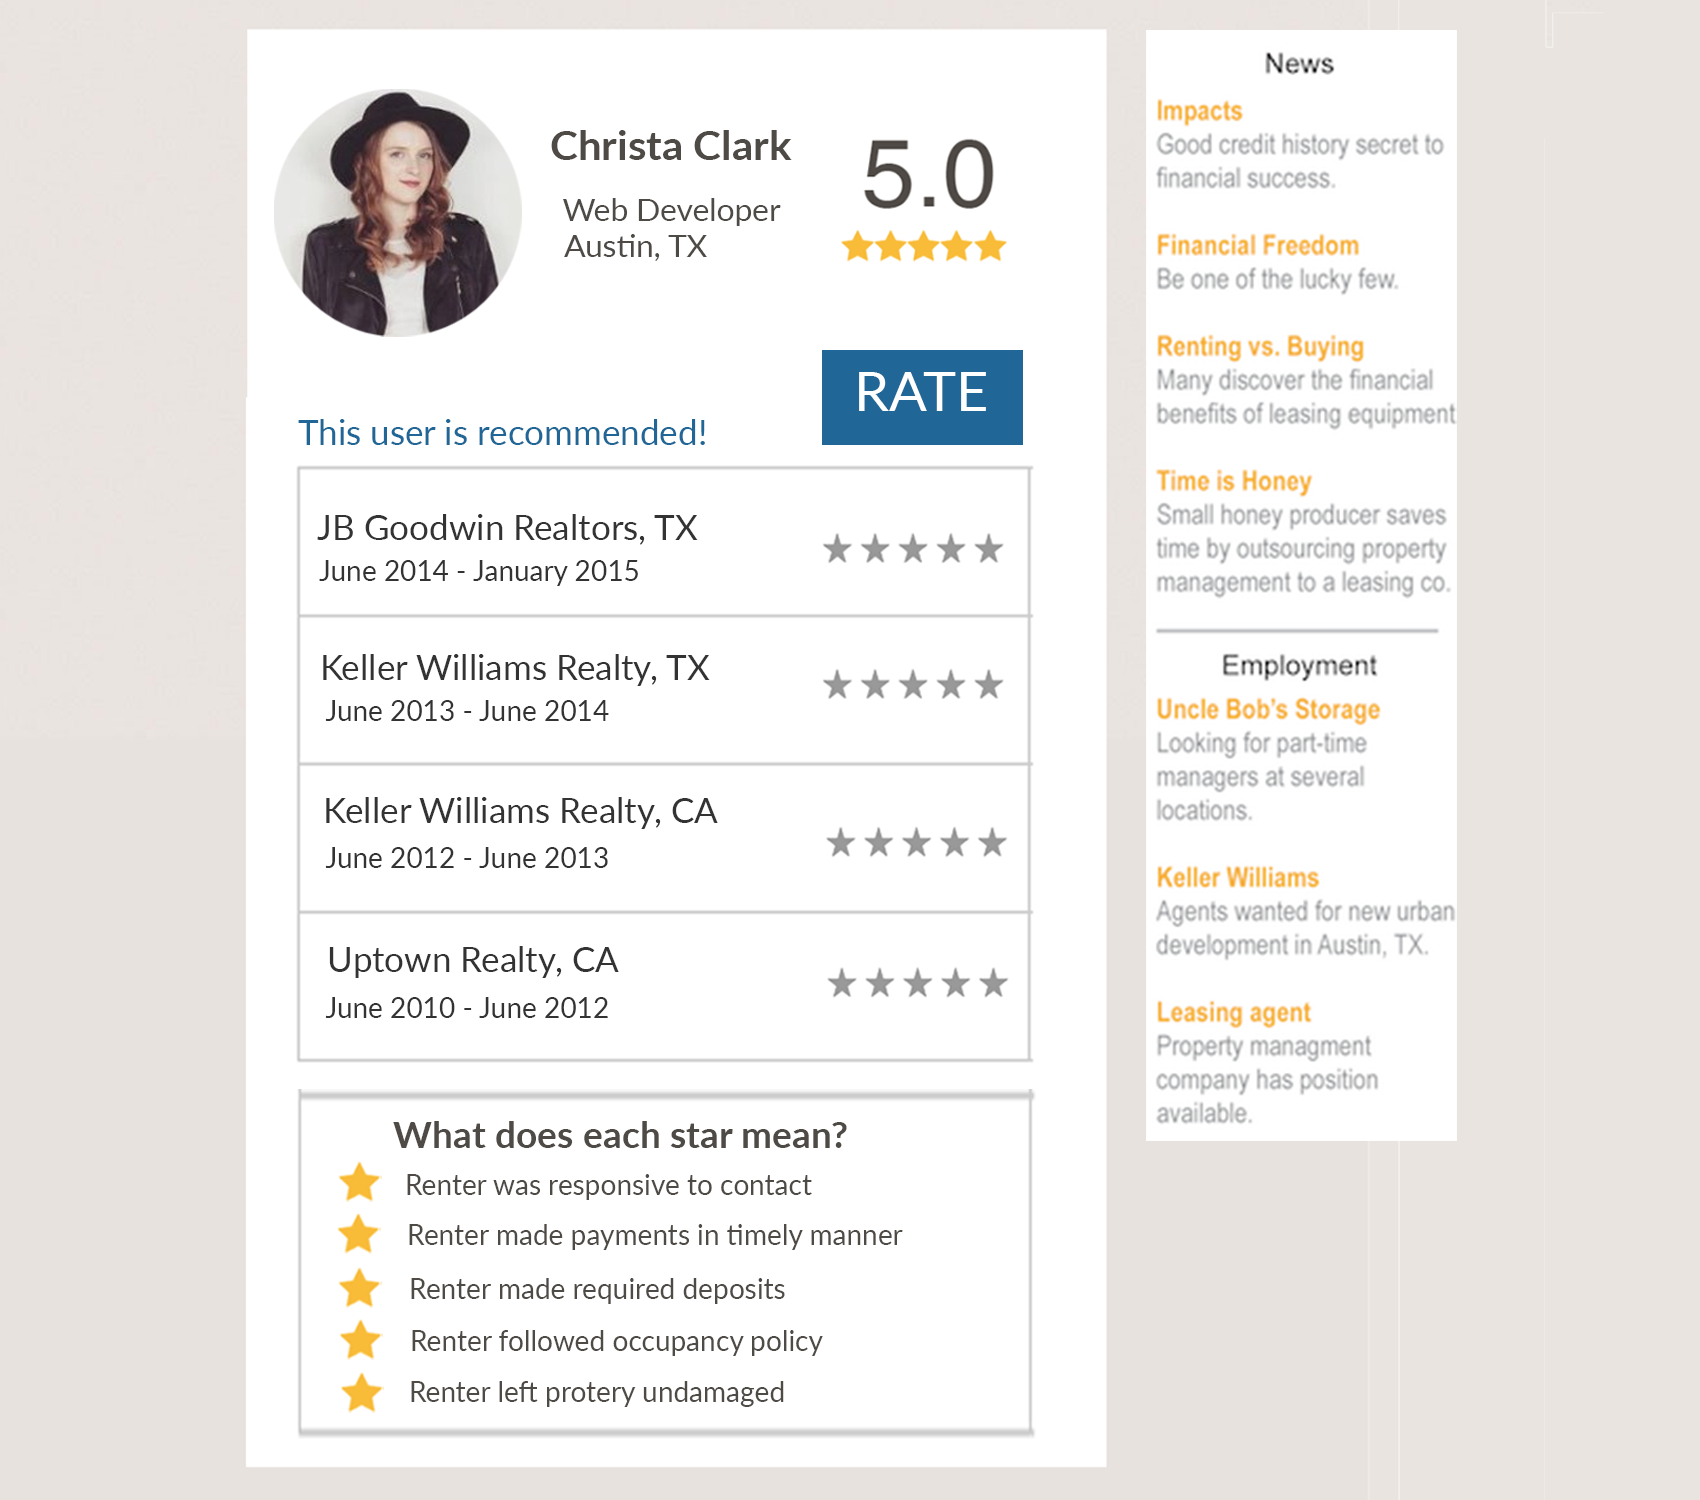
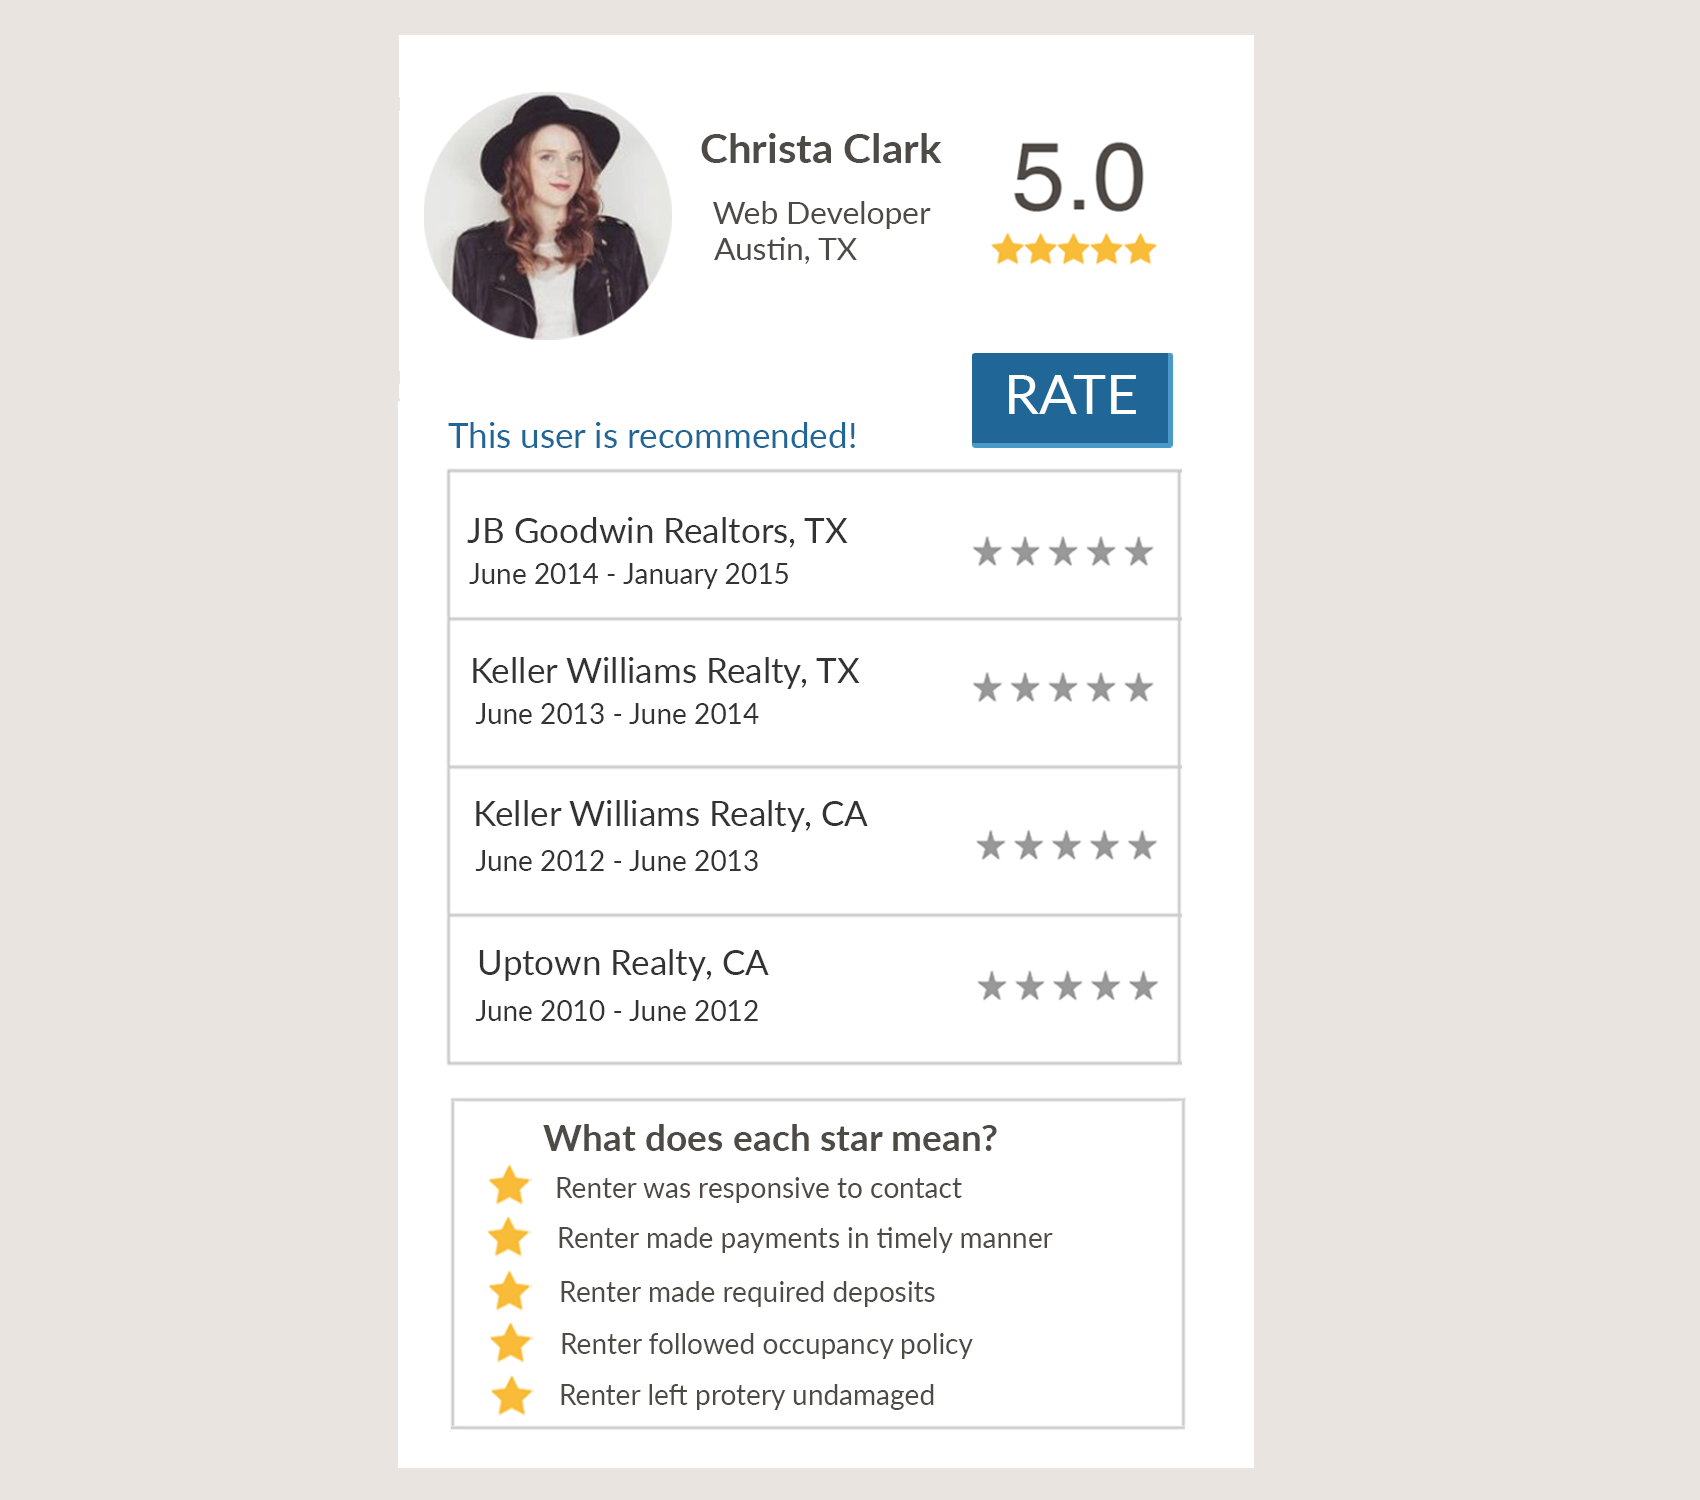
fucked up background

Changed region(s): [[0.1247, 0.0, 0.8729, 0.9813]]

diff --git a/css/profile.css b/css/profile.css
@@ -1,13 +1,49 @@
-/*
-Bootstrap 3.1 overrides from http://bootply.com
 
-This CSS code should follow the 'bootstrap.css'
-in your HTML file.
-
-license: MIT
-author: bootply.com
-*/
 
 body {
   padding-top: 70px;
+	min-width: 1800px;
+	float: left;
+}
+
+/*** buttons ***/
+.btn {
+	background:#3E6D92;
+	color:#fff;
+	border:2px solid #fff;
+}
+.btn:hover {
+	color:#3E6D92;
+	border-color:#eee;
+	text-shadow:none;
+	background:#fff
+}
+.btn-primary {
+	background: #006dcc;
+}
+.btn-primary:hover, .btn-primary:focus, .btn-primary:active, .btn-primary.active, .btn-primary.disabled, .btn-primary[disabled] {
+	background: #555;
+}
+.btn-info {
+	background: #49AFCD;
+}
+.btn-success {
+	background: #5BB75B;
+}
+.btn-warning {
+	background: #FAA732;
+}
+.btn-danger {
+	background: #DA4F49;
+}
+.btn-link, .btn-link:active, .btn-link[disabled], .btn-link:hover {
+	background:none;
+	border:none;
+	-moz-box-shadow: none;
+	-webkit-box-shadow:none;
+	box-shadow: none;
+	color:#49AFCD;
+}
+.btnWrapper {
+	border:1px solid #ccc;
 }

diff --git a/index.html b/index.html
@@ -37,7 +37,7 @@
 		<!-- Custom css -->
 		<link type="text/css" rel="stylesheet" href="css/layout.css">
 		<link type="text/css" id="colors" rel="stylesheet" href="css/blue.css">
-		<link type="text/css" id="colors" rel="stylesheet" href="css/prototype.css">
+		<link type="text/css" id="colors" rel="stylesheet" href="css/main.css">
 		<!-- ORIGINAL CSS <link type="text/css" id="colors" rel="stylesheet" href="css/colors.css"> -->
 		<!--[if lt IE 9]><script src="http://html5shim.googlecode.com/svn/trunk/html5.js"></script> <![endif]-->
 		<script src="js/modernizr-2.6.1.min.js"></script>

diff --git a/reviews.html b/reviews.html
@@ -12,6 +12,7 @@
 			<script src="//html5shim.googlecode.com/svn/trunk/html5.js"></script>
 		<![endif]-->
     <link rel="stylesheet" href="css/profile.css" type="text/css" media="screen,projection,print" />
+     <link rel="stylesheet" href="css/main.css" type="text/css" />
   <link rel="shortcut icon" href="images/favicon.png" />
 	</head>
 
@@ -43,7 +44,9 @@
 </nav>
 
 <div class="col-lg-12">
+  <div id="review">
   <img src="images/review.png" class="img-responsive" style="position:relative;top:10px" />
+</div>
 </div>
 
 

diff --git a/css/signup.css b/css/signup.css
@@ -2,6 +2,7 @@
 	background-image:url('../images/background.jpg');
 	min-height: 700px;
 	min-width: 1000px;
+	float: left;
 }
 
 
